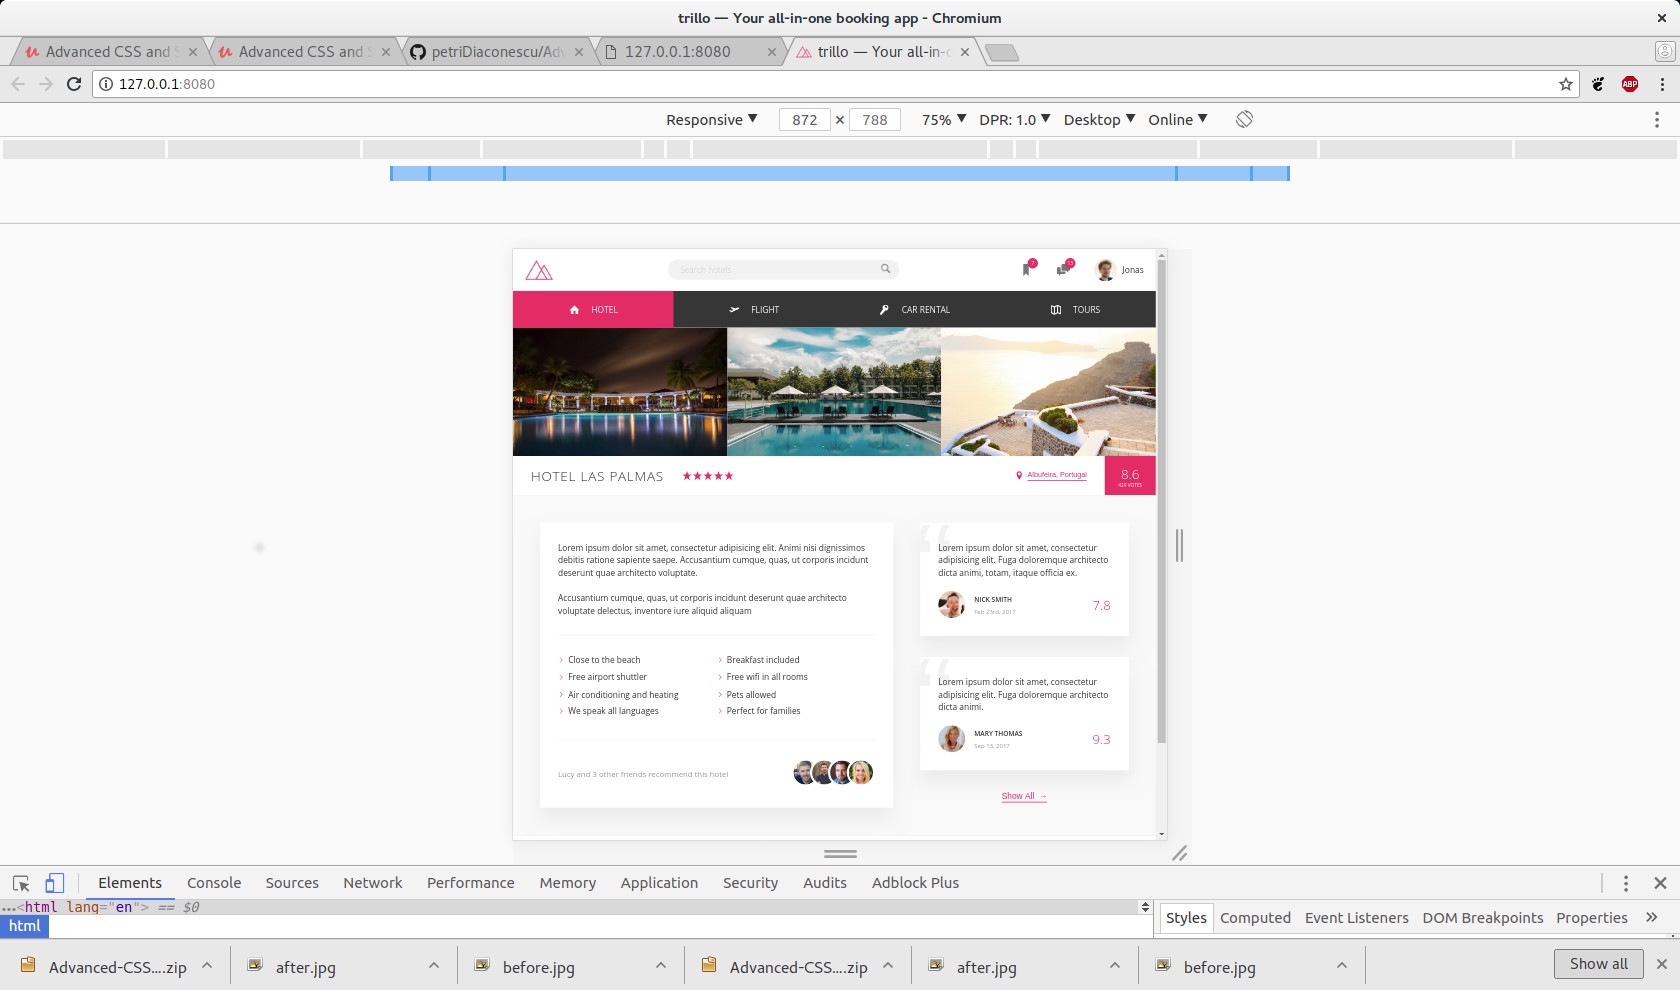
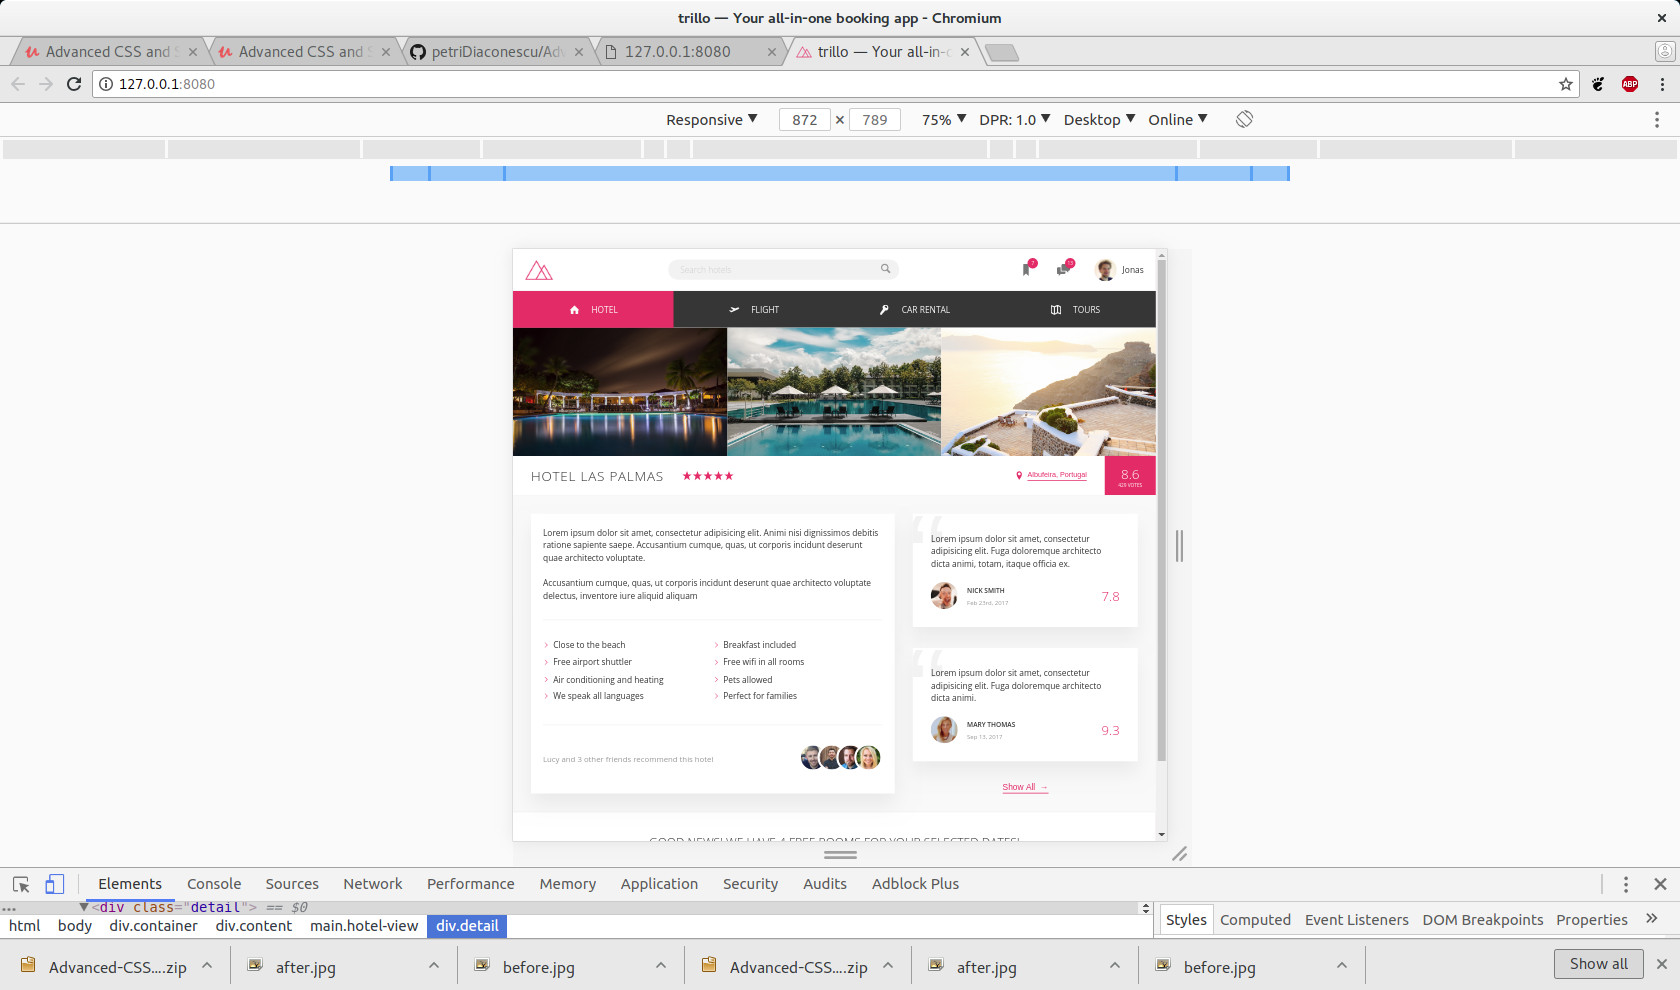
Tweak margins and paddings under 900px screen devices

diff --git a/sass/_layout.scss b/sass/_layout.scss
@@ -56,6 +56,10 @@
   padding: 4.5rem;
   background-color: var(--color-grey-light-1);
   border-bottom: var(--line);
+  
+  @media only screen and (max-width: $bp-medium){
+    padding: 3rem;
+  }
 }
 
 .description {
@@ -64,6 +68,11 @@
   padding: 3rem;
   flex: 0 0 60%;
   margin-right: 4.5rem;
+  
+  @media only screen and (max-width: $bp-medium){
+      margin-right: 3rem;
+      padding: 2rem;
+    }
 }
 
 .user-reviews {
